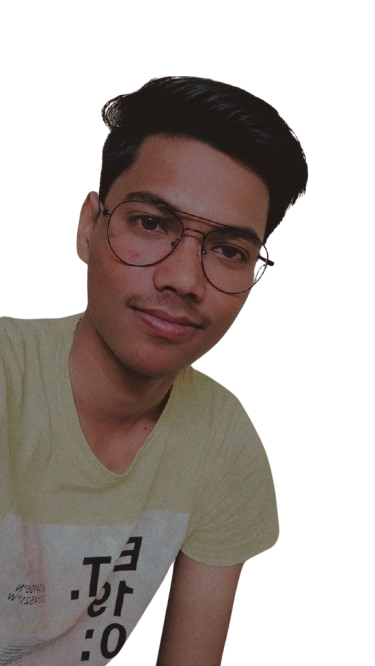
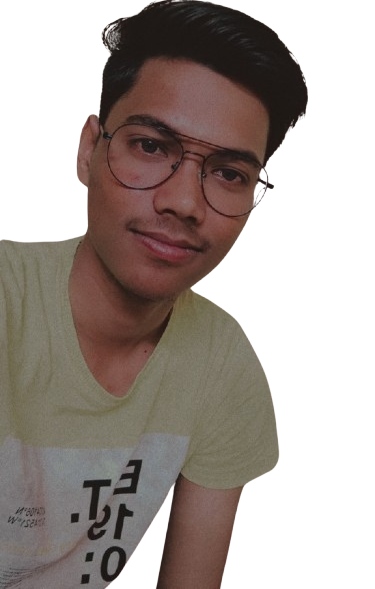
About section complete

diff --git a/src/App.jsx b/src/App.jsx
@@ -1,16 +1,19 @@
 import React from "react";
 import Navbar from "./components/Navbar";
 import Hero from "./components/Hero";
+import About from "./components/About";
 
 const App = () => {
   return (
     <div className="overflow-x-hidden text-neutral-300 antialiased selection:bg-cyan-300 selection:text:text-cyan-900">
-      <div className="flixed top-0 -z-10 h-full w-full"></div>
-      <div className="absolute top-0 z-[-2] h-screen w-screen bg-neutral-950 bg-[radial-gradient(ellipse_80%_80%_at_50%_-20%,rgba(120,119,198,0.3),rgba(255,255,255,0))]"></div>
+      <div className="fixed top-0 -z-10 h-full w-full">
+        <div className="absolute top-0 z-[-2] h-screen w-screen bg-neutral-950 bg-[radial-gradient(ellipse_80%_80%_at_50%_-20%,rgba(120,119,198,0.3),rgba(255,255,255,0))]"></div>
+      </div>
 
       <div className="container mx-auto px-8">
         <Navbar />
         <Hero />
+        <About />
       </div>
     </div>
   );

diff --git a/src/components/About.jsx b/src/components/About.jsx
@@ -1,0 +1,28 @@
+import React from "react";
+import aboutImg from "../assets/pic_1.png";
+import { ABOUT_TEXT } from "../constants";
+
+const About = () => {
+  return (
+    <div className="border-b border-neutral-900 pb-4">
+      <h2 className="my-20 text-center text-4xl">
+        About
+        <span className="text-neutral-500"> Me</span>
+      </h2>
+      <div className="flex flex-wrap">
+        <div className="w-full lg:w-1/2 lg:p-8">
+          <div className="flex items-center justify-center">
+            <img className="rounded-2xl" src={aboutImg} alt="about" />
+          </div>
+        </div>
+        <div className="w-full lg:w-1/2">
+          <div className="flex justify-center lg:justify-start">
+            <p className="my-2 max-w-xl py-6">{ABOUT_TEXT}</p>
+          </div>
+        </div>
+      </div>
+    </div>
+  );
+};
+
+export default About;
